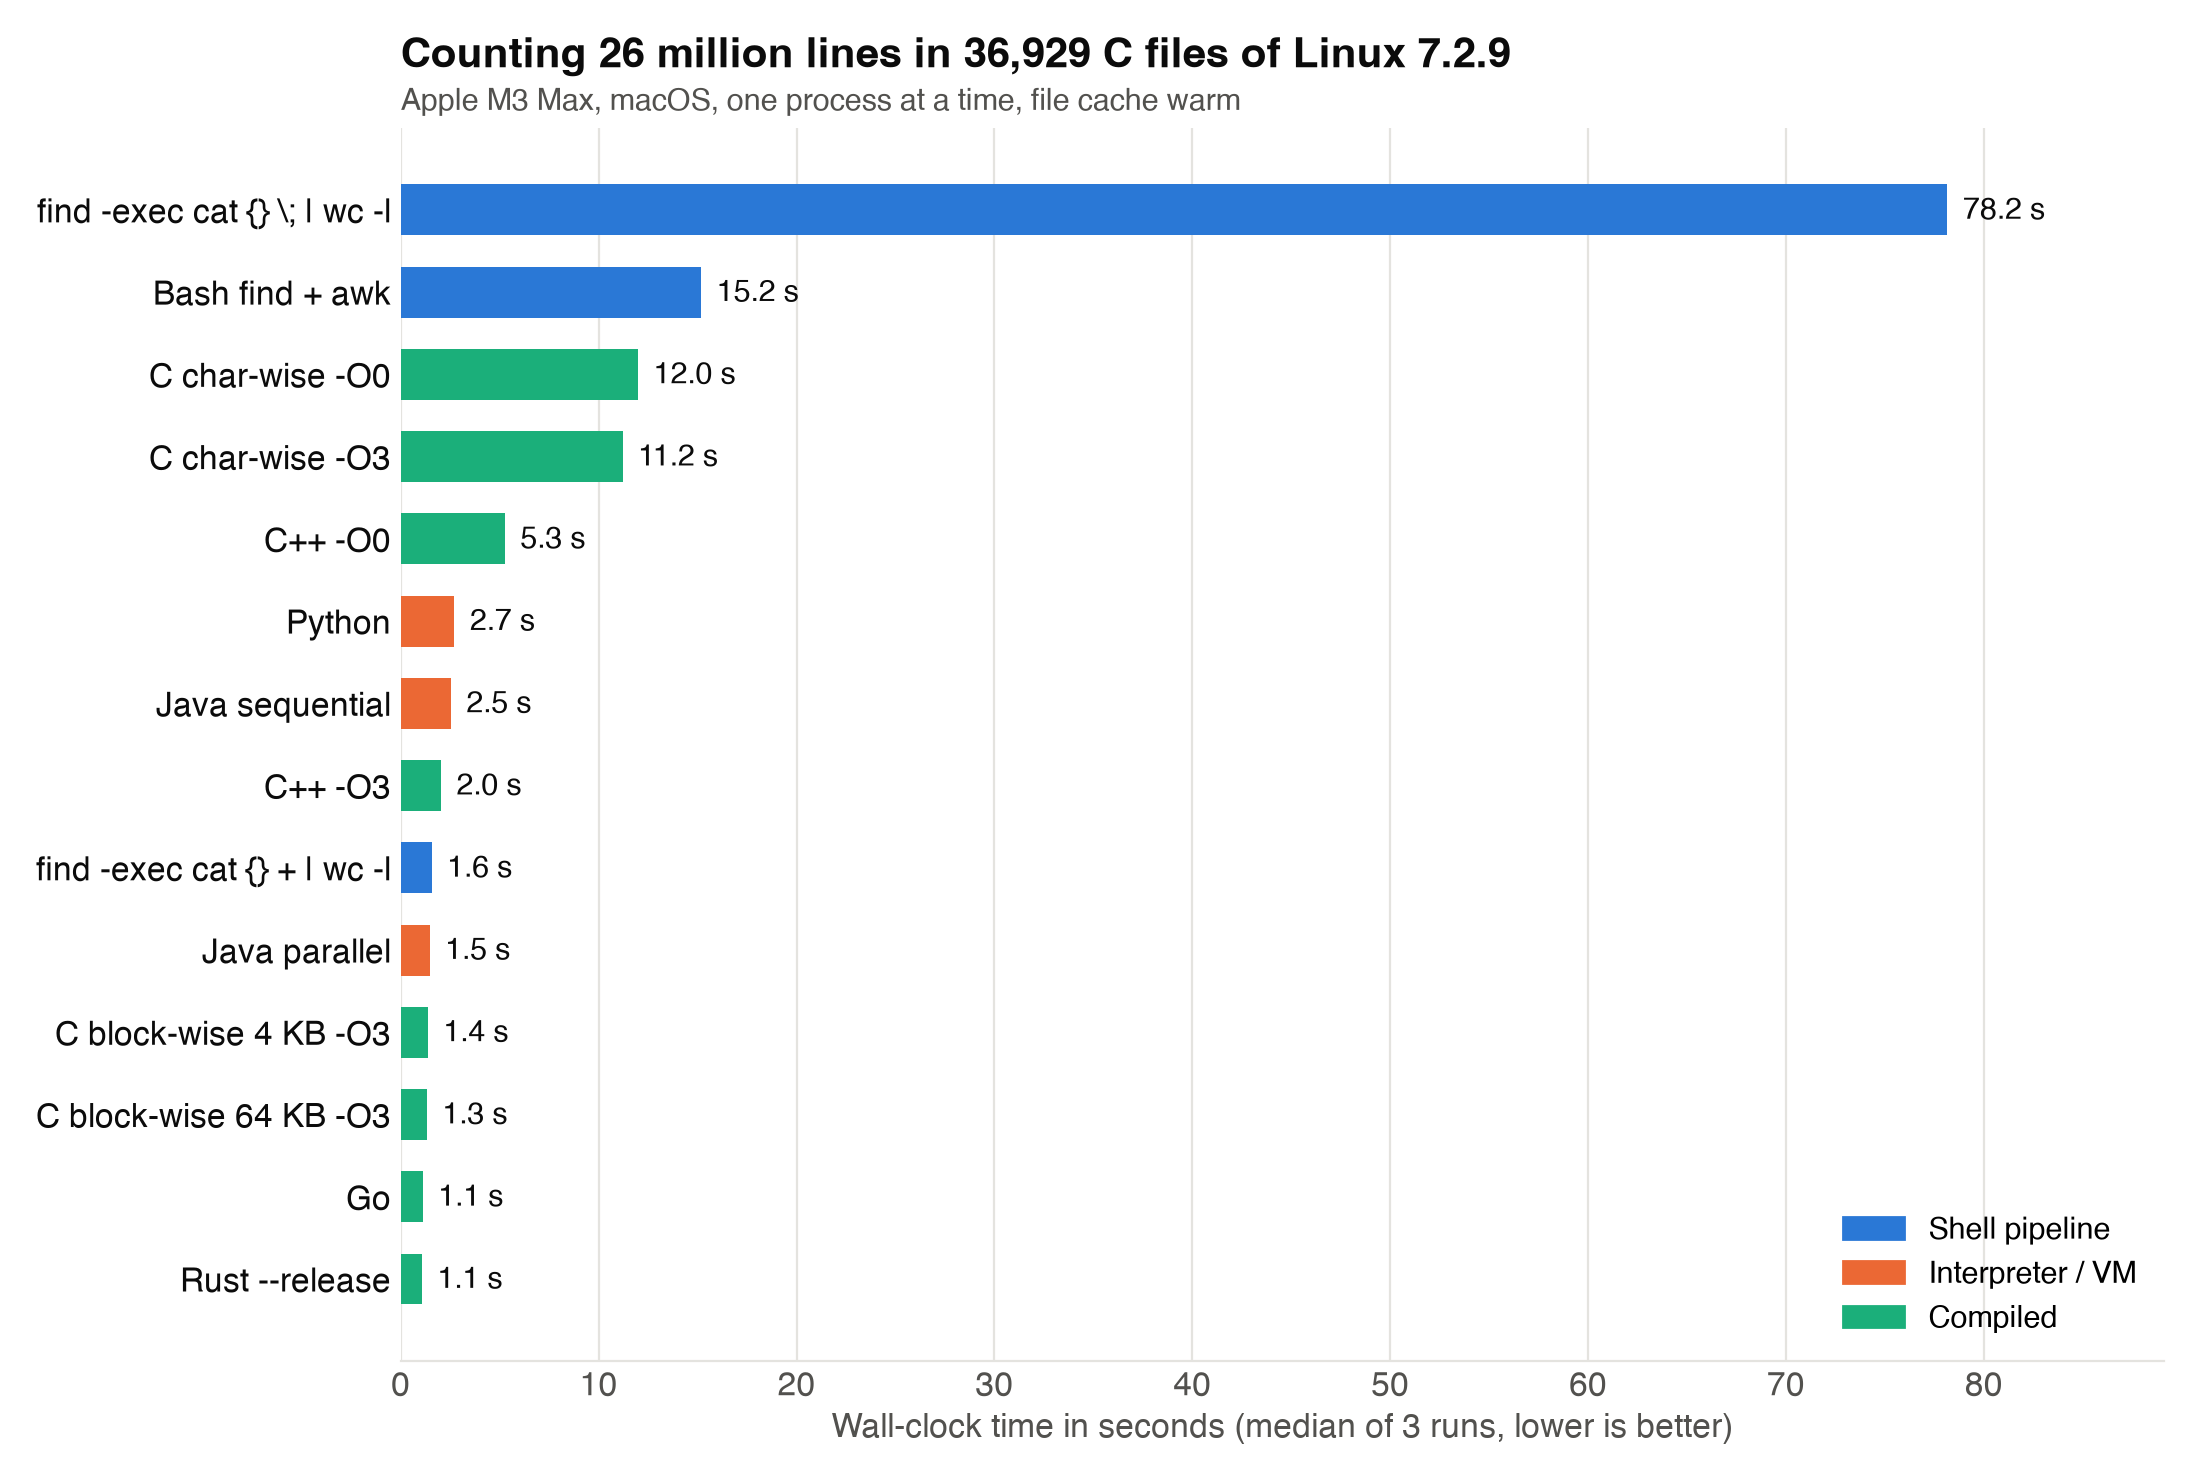
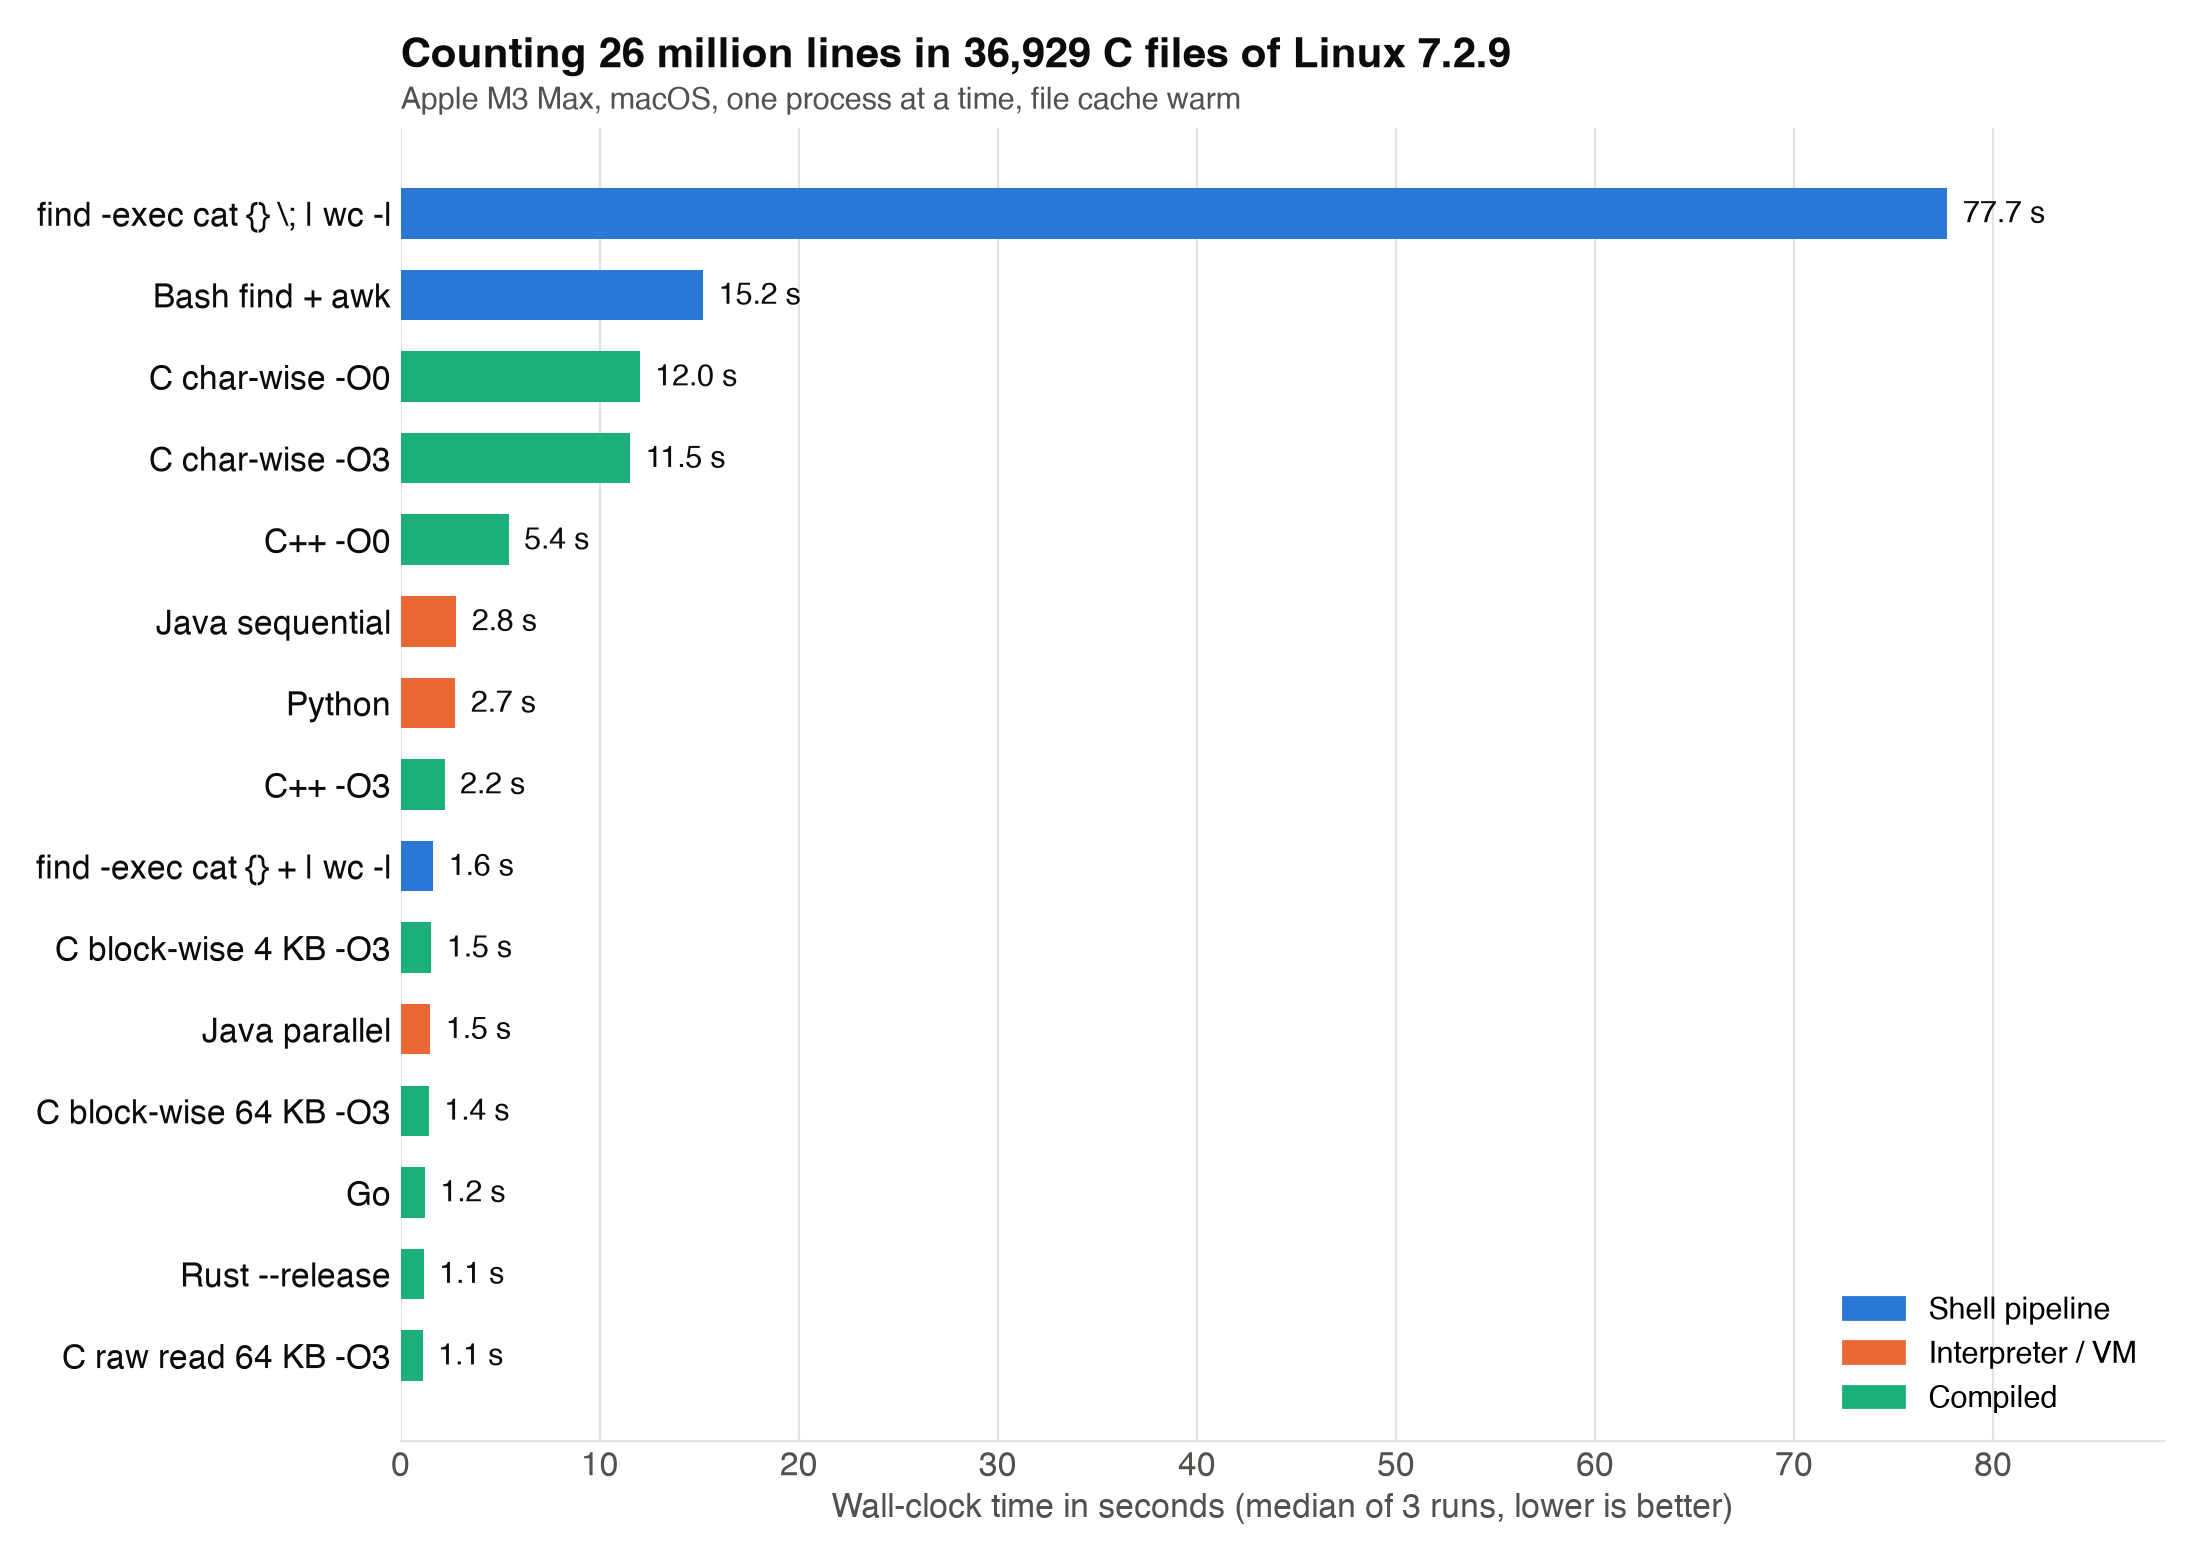
Add a stripped-down C variant with POSIX read and a 64 KB buffer
open/read instead of stdio, a plain byte loop the compiler vectorises,
readdir d_type instead of stat per entry, openat/fdopendir instead of
path strings. It lands at Go/Rust level in the benchmark. Charts and
README updated.

diff --git a/CCountLines/count_lines_in_files_raw.c b/CCountLines/count_lines_in_files_raw.c
@@ -1,0 +1,54 @@
+// Bare-minimum variant: POSIX open/read instead of stdio, 64 KB buffer,
+// a plain byte loop that the compiler vectorises at -O3, readdir's d_type
+// instead of stat per entry, and openat/fdopendir so no path strings are
+// built while walking. Symbolic links are not followed (like find -type f).
+#include <dirent.h>
+#include <fcntl.h>
+#include <regex.h>
+#include <stdio.h>
+#include <string.h>
+#include <unistd.h>
+
+#define BUFFER_SIZE 65536
+
+static long countLines(int dirfd, const char *name) {
+    static char buf[BUFFER_SIZE];
+    int fd = openat(dirfd, name, O_RDONLY);
+    if (fd < 0) return 0;
+    long lines = 0;
+    ssize_t n;
+    while ((n = read(fd, buf, sizeof buf)) > 0)
+        for (ssize_t i = 0; i < n; i++)
+            lines += buf[i] == '\n';
+    close(fd);
+    return lines;
+}
+
+static long countLinesInAllFiles(int dirfd, const regex_t *re) {
+    DIR *dir = fdopendir(dirfd);
+    if (!dir) { close(dirfd); return 0; }
+    long total = 0;
+    struct dirent *e;
+    while ((e = readdir(dir))) {
+        if (e->d_type == DT_DIR) {
+            if (strcmp(e->d_name, ".") == 0 || strcmp(e->d_name, "..") == 0) continue;
+            int sub = openat(dirfd, e->d_name, O_RDONLY | O_DIRECTORY);
+            if (sub >= 0) total += countLinesInAllFiles(sub, re);
+        } else if (e->d_type == DT_REG && regexec(re, e->d_name, 0, NULL, 0) == 0) {
+            total += countLines(dirfd, e->d_name);
+        }
+    }
+    closedir(dir);  // also closes dirfd
+    return total;
+}
+
+int main(int argc, char **argv) {
+    if (argc != 3) { fprintf(stderr, "usage: %s <folderPath> <regexStr>\n", argv[0]); return 1; }
+    regex_t re;
+    if (regcomp(&re, argv[2], REG_EXTENDED | REG_NOSUB)) { fprintf(stderr, "bad regex\n"); return 1; }
+    int fd = open(argv[1], O_RDONLY | O_DIRECTORY);
+    if (fd < 0) { perror(argv[1]); return 1; }
+    printf("Total number of lines: %ld\n", countLinesInAllFiles(fd, &re));
+    regfree(&re);
+    return 0;
+}

diff --git a/benchmark/plot_sizes.py b/benchmark/plot_sizes.py
@@ -25,6 +25,7 @@ VARIANTS = [
     ("C++",                         "Compiled", "CppCountLines/count_lines.cpp"),
     ("C char-wise",                 "Compiled", "CCountLines/count_lines_in_files_char.c"),
     ("C block-wise",                "Compiled", "CCountLines/count_lines_in_files_block.c"),
+    ("C raw read",                  "Compiled", "CCountLines/count_lines_in_files_raw.c"),
     ("Go",                          "Compiled", "GoCountLines/count_lines.go"),
     ("Rust",                        "Compiled", "RustCountLines/src/main.rs"),
 ]
@@ -48,7 +49,7 @@ sizes = [r[0] for r in rows]
 colors = [COLOR[r[2]] for r in rows]
 
 plt.rcParams.update({"font.family": "Helvetica", "font.size": 12})
-fig, ax = plt.subplots(figsize=(11, 6), dpi=200)
+fig, ax = plt.subplots(figsize=(11, 6.4), dpi=200)
 fig.patch.set_facecolor("white")
 ax.set_facecolor("white")
 

diff --git a/benchmark/plot_runtimes.py b/benchmark/plot_runtimes.py
@@ -31,6 +31,7 @@ FAMILY = {
     "C char-wise -O3": "Compiled",
     "C block-wise 4 KB -O3": "Compiled",
     "C block-wise 64 KB -O3": "Compiled",
+    "C raw read 64 KB -O3": "Compiled",
     "Go": "Compiled",
     "Rust --release": "Compiled",
 }
@@ -43,7 +44,7 @@ medians = [m for m, _ in rows]
 colors = [COLOR[FAMILY[k]] for k in labels]
 
 plt.rcParams.update({"font.family": "Helvetica", "font.size": 12})
-fig, ax = plt.subplots(figsize=(11, 7.4), dpi=200)
+fig, ax = plt.subplots(figsize=(11, 7.8), dpi=200)
 fig.patch.set_facecolor("white")
 ax.set_facecolor("white")
 

diff --git a/README.md b/README.md
@@ -8,6 +8,7 @@ Programming languages used:
 
 - Java (Java Streams; sequential and parallel)
 - C (reading single chars and reading blocks of chars; block size 4 KB by default, `-DBUFFER_SIZE=65536` for 64 KB)
+- C stripped down (POSIX `open`/`read`, 64 KB buffer, `readdir` types instead of `stat`, no stdio on the read path)
 - C++ (standard version C++17)
 - Go (standard library only: `filepath.WalkDir`, `regexp`, block-wise reads)
 - Rust (crates `walkdir` and `regex`, block-wise reads; build with `cargo build --release`)
